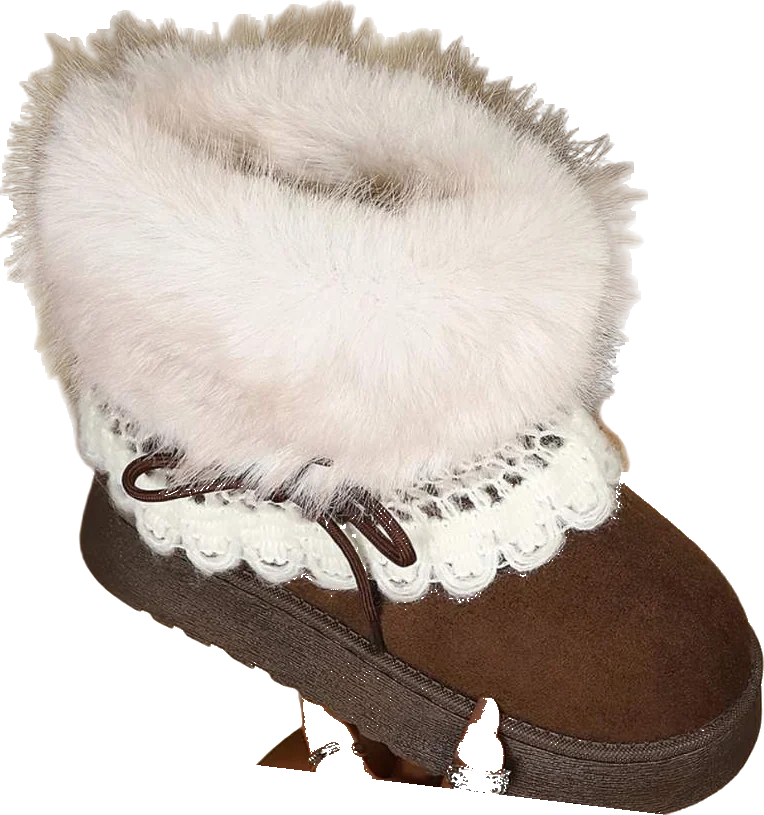
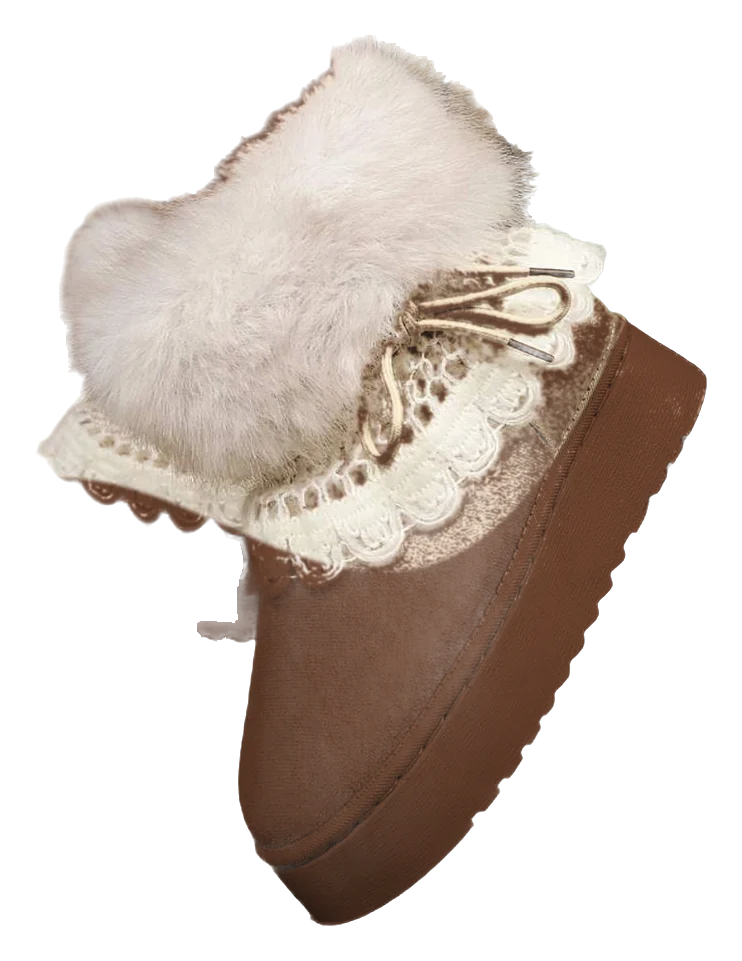
anjinho/previa: pilares em meio-tom com as botas no hero; botas sem cortes
- hero: arco com dois pilares feitos de pontos rosa, as botas nuvem ao meio e um
  chão de pontos; sai o respingo de cima para não competir com os pilares
- botas bege e chocolate passam a usar o recorte limpo (a chocolate é a mesma bota
  com a camurça recolorida), sem os cortes da mão e da etiqueta do fornecedor

Claude-Session: https://claude.ai/code/session_012PT6h6v51v6EsV2bxKbvb4

diff --git a/anjinho/site/previa/index.html b/anjinho/site/previa/index.html
@@ -64,6 +64,10 @@ nav .saco{margin-left:auto;font-size:14px;min-height:44px;display:flex;align-ite
 .btn:active{transform:scale(.97)}
 .lado{display:none}
 
+.hero .foto.templo{background:none;border-radius:0;padding:0;right:-6%;width:88%;height:66%}
+.templo .pilares{position:absolute;inset:0;width:100%;height:100%;overflow:visible}
+.templo .destaque{position:absolute;left:50%;bottom:9%;width:46%;height:auto;transform:translateX(-50%) rotate(-6deg);filter:drop-shadow(0 18px 16px rgba(29,23,25,.14));z-index:2}
+.templo .st{z-index:3}
 /* autocolantes */
 .st{position:absolute;z-index:6;pointer-events:none}
 .st svg{overflow:visible;display:block}
@@ -164,6 +168,7 @@ footer small{font-size:12px;opacity:.6}
   nav .links{display:flex}
   .hero{padding-top:130px}
   .hero .foto{right:12%;width:36%;height:84%}
+  .hero .foto.templo{right:8%;width:44%;height:88%}
   .hero h1{max-width:9ch}
   .hero .nota{top:22%;right:6%;font-size:34px}
   .hs1{left:44%;right:auto;top:15%}
@@ -249,9 +254,13 @@ atualizaSaco(0);
 
 
 <header class="hero">
-  <div class="resp" data-s="7" style="right:-330px;top:-60px;width:780px;opacity:.55"></div>
   <div class="resp" data-s="23" style="left:-300px;bottom:-140px;width:600px;opacity:.45"></div>
-  <div class="foto" role="img" aria-label="Lugar da fotografia principal do drop 01">fotografia do drop 01<br>modelo de corpo inteiro, céu claro</div>
+  <div class="foto templo" aria-hidden="true">
+    <svg class="pilares" id="pilares" viewBox="0 0 400 560" preserveAspectRatio="xMidYMax meet"></svg>
+    <img class="destaque" src="/previa/img/botas_bege_2.webp" alt="" width="742" height="961">
+    <div class="st" data-f="laco" data-e="papel" style="left:3%;top:50%;width:15%;transform:rotate(-14deg)"></div>
+    <div class="st" data-f="coracao" data-e="pixel" style="right:7%;top:58%;width:10%;transform:rotate(8deg)"></div>
+  </div>
   <span class="etq pix">♡ save file 01 · inverno ♡</span>
   <h1>anjinha,<br>por <span class="circ">dentro.<svg viewBox="0 0 560 220" preserveAspectRatio="none" aria-hidden="true"><path class="traco" d="M30 120 C 20 40, 300 10, 470 40 C 560 58, 540 160, 420 185 C 280 212, 60 200, 40 140 C 30 105, 120 70, 220 62" fill="none" stroke="#F6B8C8" stroke-width="12" stroke-linecap="round"/></svg></span></h1>
   <p class="nota mao">botas nuvem + meias brancas ♡</p>
@@ -408,6 +417,26 @@ form.addEventListener('submit',e=>{e.preventDefault();const v=email.value.trim()
    .then(r=>{emsg.textContent=r.ok?'estás dentro ♡ vemo-nos no drop 01.':'não consegui guardar o teu email. tenta outra vez daqui a nada.';if(r.ok)form.reset()})
    .catch(()=>{emsg.textContent='sem ligação. confirma a internet e tenta outra vez.'})});
 
+
+// pilares em meio-tom à volta da peça do hero
+(function(){const svg=document.getElementById('pilares');if(!svg)return;const NS='http://www.w3.org/2000/svg';
+ const el=(n,a)=>{const e=document.createElementNS(NS,n);for(const k in a)e.setAttribute(k,a[k]);return e};
+ const pilar=x=>`M${x-40} 560 H${x+40} V538 H${x-40} Z M${x-32} 538 H${x+32} V520 H${x-32} Z M${x-24} 520 V178 H${x+24} V520 Z M${x-34} 178 H${x+34} V160 H${x-34} Z M${x-30} 160 C ${x-44} 160, ${x-44} 140, ${x-30} 142 H${x+30} C ${x+44} 140, ${x+44} 160, ${x+30} 160 Z`;
+ const arco='M40 150 A160 160 0 0 1 360 150 L328 150 A128 128 0 0 0 72 150 Z';
+ const defs=el('defs',{});const cp=el('clipPath',{id:'cpPil'});
+ [pilar(56),pilar(344)].forEach(d=>cp.append(el('path',{d})));cp.append(el('path',{d:arco}));defs.append(cp);svg.append(defs);
+ const g=el('g',{'clip-path':'url(#cpPil)'});const P=6.4;
+ for(let y=0;y<=560;y+=P)for(let x=((y/P)%2?P/2:0);x<=400;x+=P){
+   // sombra cilíndrica: mais escuro do lado de fora de cada pilar; caneluras no fuste
+   const cx=x<200?56:344,dx=(x-cx)/24;let r;
+   if(y>178&&y<520&&Math.abs(dx)<=1){const lado=x<200?-dx:dx;r=1.2+1.35*(0.55+0.45*lado)+0.6*Math.abs(Math.sin(dx*Math.PI*2.5))}
+   else if(y<=160){const a=Math.atan2(150-y,x-200);r=1.3+1.2*Math.abs(Math.cos(a))}
+   else r=2.5-((y-520)/40)*.6;
+   g.append(el('circle',{cx:x.toFixed(1),cy:y.toFixed(1),r:Math.max(.5,Math.min(3.1,r)).toFixed(2),fill:y>178&&y<520&&Math.abs(dx)>0.55?'#E88AA3':'#F6B8C8'}))}
+ svg.append(g);
+ // chão de pontos por baixo da peça
+ for(let i=0;i<9;i++)for(let j=0;j<42;j++){const x=200+(j-21)*7+(i%2)*3.5,y=520+i*5,d=Math.hypot((x-200)/150,(y-540)/24);if(d<1)svg.append(el('circle',{cx:x,cy:y,r:(2.2*(1-d)+.4).toFixed(2),fill:'#E88AA3',opacity:.7}))}
+})();
 // letras recortadas
 (function(){const cores=['#F6B8C8','#FFFFFF','#DCE8F2','#F1E6E4'];let seed=7;const rnd=()=>{seed=(seed*9301+49297)%233280;return seed/233280};
 document.querySelectorAll('.recorte').forEach(h=>{const t=h.textContent;h.textContent='';t.split(' ').forEach((w,wi)=>{

diff --git a/anjinho/site/previa/loja.js b/anjinho/site/previa/loja.js
@@ -11,8 +11,8 @@ const PECAS = [
     detalhes: ['exterior: camurça sintética', 'gola: pelo sintético', 'renda: croché de algodão', 'sola: borracha, 4 cm', 'forro quentinho por dentro'],
     tamanhos: ['36', '37', '38', '39', '40'],
     cores: [
-      { nome: 'bege', hex: '#E9DCCB', imgs: [['botas_bege_2.webp', 'nuvem'], ['botas_bege_1.webp', 'ceu'], ['det_bege.webp', 'foto']] },
-      { nome: 'chocolate', hex: '#6B4632', imgs: [['botas_choc_1.webp', 'nuvem'], ['det_choc.webp', 'foto'], ['botas_choc_1.webp', 'rosa']] }
+      { nome: 'bege', hex: '#E9DCCB', imgs: [['botas_bege_2.webp', 'nuvem'], ['botas_bege_2m.webp', 'ceu'], ['det_bege.webp', 'foto']] },
+      { nome: 'chocolate', hex: '#6B4632', imgs: [['botas_choc_1.webp', 'nuvem'], ['botas_choc_1m.webp', 'rosa'], ['det_choc.webp', 'foto']] }
     ],
     autocolante: ['laco', 'riscas']
   },
